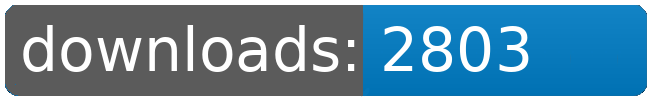
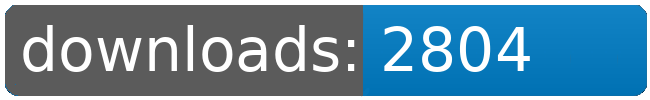
dl log written

Changed region(s): [[0.7692, 0.24, 0.8308, 0.72]]

diff --git a/README.md b/README.md
@@ -43,8 +43,8 @@
 		<td>2726</td>
 		<td>2765</td>
 		<td>2799</td>
-		<td>2803</td>
-		<td>+ 4</td>
+		<td>2804</td>
+		<td>+ 5</td>
 	</tr>
 	<tr>
 		<td>Jaws</td>
@@ -109,8 +109,8 @@
 		<td></td>
 		<td></td>
 		<td></td>
-		<td>17729</td>
-		<td>38</td>
+		<td>17730</td>
+		<td>39</td>
 	</tr>
 </table>
 </sub></sup>
@@ -135,8 +135,8 @@
 		<td>2726</td>
 		<td>2765</td>
 		<td>2799</td>
-		<td>2803</td>
-		<td>+ 4</td>
+		<td>2804</td>
+		<td>+ 5</td>
 	</tr>
 	<tr>
 		<td>Louise.Conglomerate.Shipyards</td>
@@ -223,8 +223,8 @@
 		<td></td>
 		<td></td>
 		<td></td>
-		<td>17729</td>
-		<td>38</td>
+		<td>17730</td>
+		<td>39</td>
 	</tr>
 </table>
 </sub></sup>
